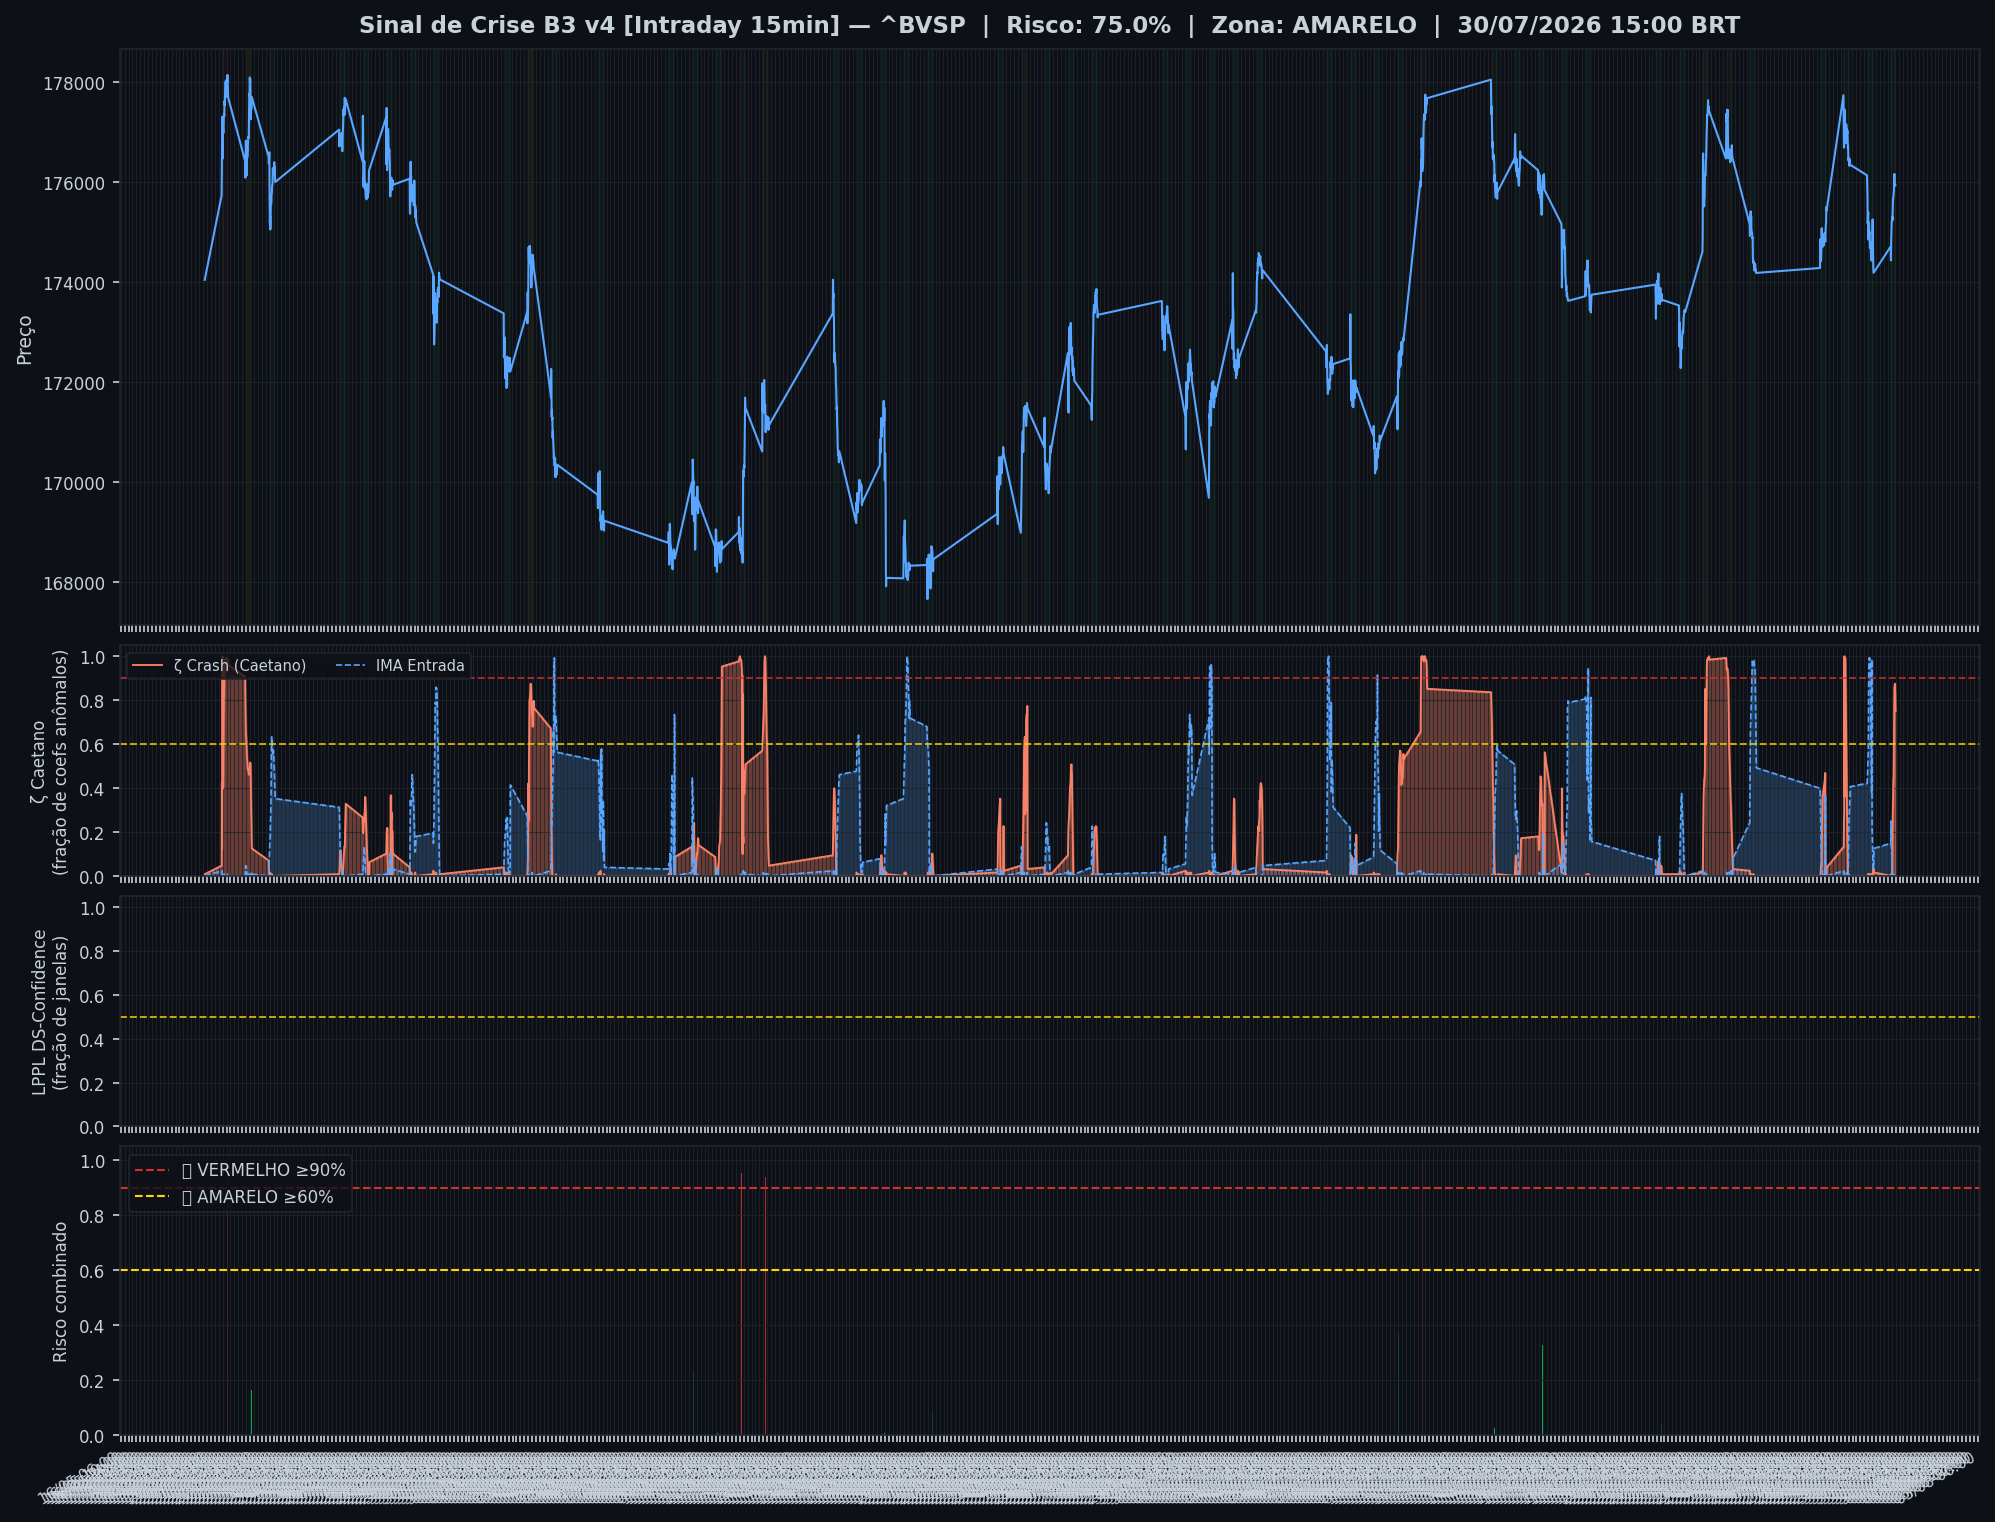
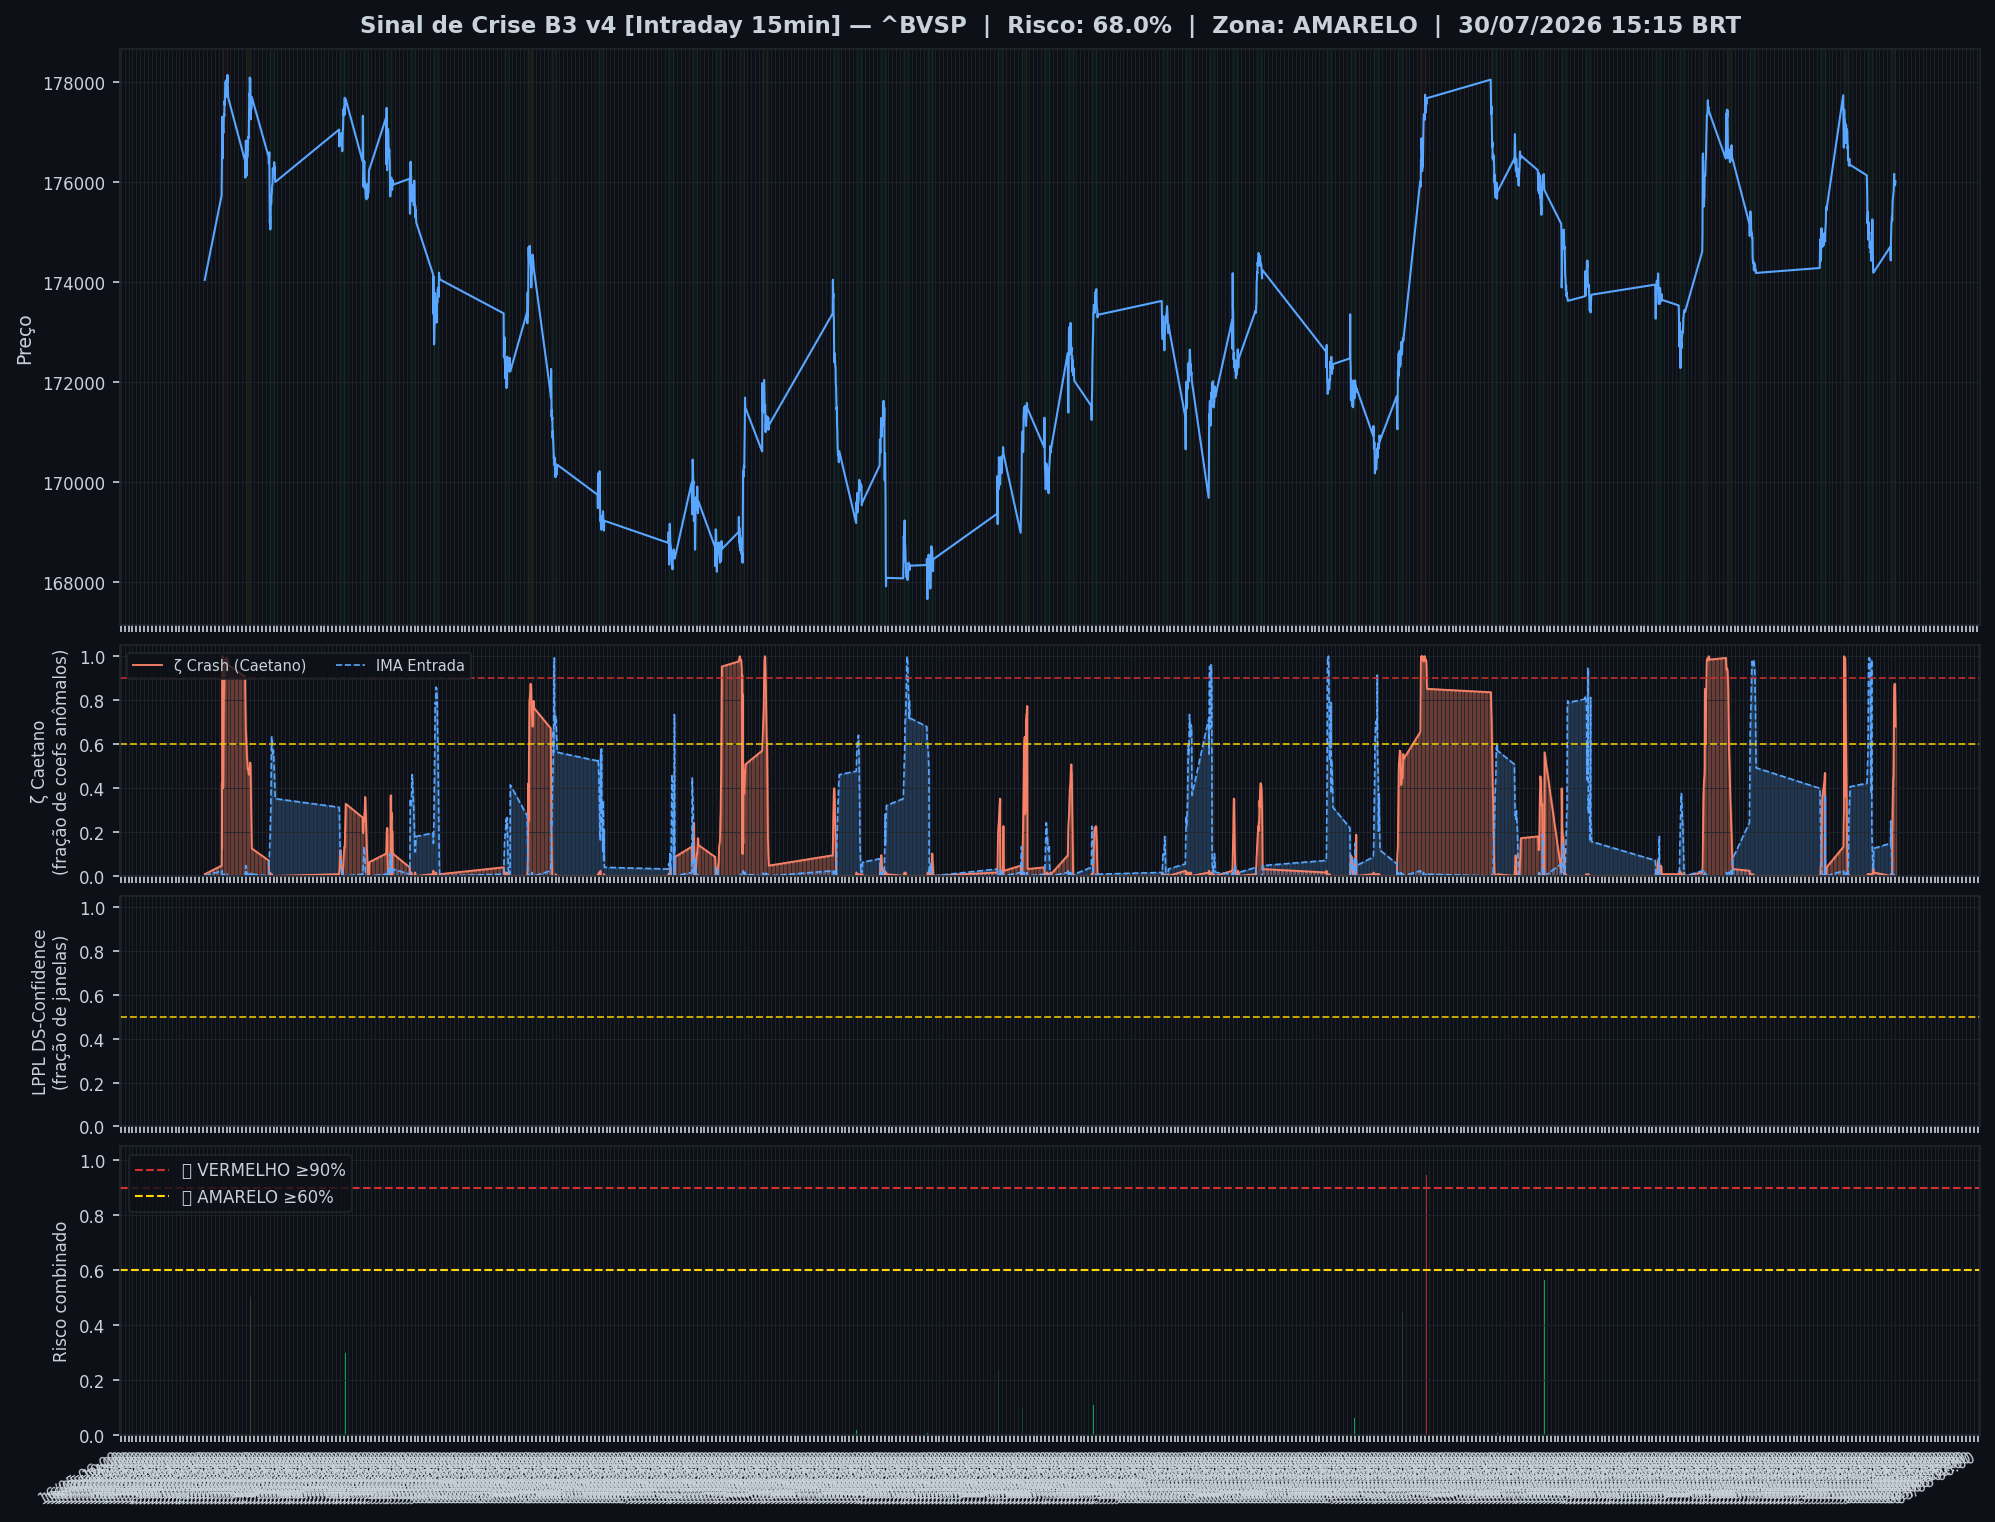
🤖 Auto: Sinal 30/07/2026 16:00

diff --git a/content/intraday/2026-07-30.md b/content/intraday/2026-07-30.md
@@ -1,20 +1,20 @@
 ---
-title: "🟡 Intraday 30/07/2026 15:00 BRT — AMARELO"
+title: "🟡 Intraday 30/07/2026 15:15 BRT — AMARELO"
 date: 2026-07-30
 tags: [intraday]
 ---
 
-> [!warning] 🟡 **AMARELO** — Risco 75% · ▼ -8 p.p. vs leitura anterior
-> `███████████████░░░░░`
+> [!warning] 🟡 **AMARELO** — Risco 68% · ▼ -7 p.p. vs leitura anterior
+> `██████████████░░░░░░`
 > Atenção — padrão de coeficientes associado a quedas mais severas.
 
 
 | Indicador | Valor |
 |---|---|
-| 🔴 ζ Crash — severidade da queda em curso | **75%** |
+| 🔴 ζ Crash — severidade da queda em curso | **68%** |
 | 🔵 ζ Entrada — estrutura de fundo | 0% |
 | 🫧 LPPL DS-Confidence | 0% |
-| 📊 Ibovespa | 175.945 pts |
+| 📊 Ibovespa | 176.020 pts |
 
 ![Gráfico do sinal](../graficos/sinal_intraday.png)
 
@@ -22,6 +22,7 @@ tags: [intraday]
 
 | Data | Zona | Risco | IMA Crash | Entrada | LPPL |
 |---|---|---|---|---|---|
+| 2026-07-30 15:15 | 🟡 AMARELO | **68%** | 68% | 0% | 0% |
 | 2026-07-30 15:00 | 🟡 AMARELO | **75%** | 75% | 0% | 0% |
 | 2026-07-30 14:45 | 🟡 AMARELO | **83%** | 83% | 0% | 0% |
 | 2026-07-30 14:30 | 🟡 AMARELO | **87%** | 87% | 0% | 0% |
@@ -51,7 +52,6 @@ tags: [intraday]
 | 2026-07-29 15:30 | 🟢 VERDE | **0%** | 0% | 12% | 0% |
 | 2026-07-29 15:15 | 🟢 VERDE | **0%** | 0% | 16% | 0% |
 | 2026-07-29 15:00 | 🟢 VERDE | **0%** | 0% | 21% | 0% |
-| 2026-07-29 14:45 | 🟢 VERDE | **0%** | 0% | 98% | 0% |
 
 ## Monitor Multi-Ativo
 
@@ -59,36 +59,36 @@ tags: [intraday]
 
 | Zona | Ativo | Setor | IMA Crash | IMA Entrada |
 |---|---|---|---|---|
-| 🟢 | **VALE** | Mineração | 18.0% | 33.6% |
-| 🟢 | **ITAUUNIBANCO** | Financeiro | 18.0% | 33.6% |
-| 🟢 | **PETROBRAS** | Petróleo | 18.0% | 33.6% |
-| 🟢 | **AXIA ENERGIA** | Energia | 18.0% | 33.6% |
-| 🟢 | **PETROBRAS** | Petróleo | 18.0% | 33.6% |
-| 🟢 | **ITAUSA** | Financeiro | 18.0% | 33.6% |
-| 🟢 | **B3** | Financeiro | 18.0% | 33.6% |
-| 🟢 | **SABESP** | Saneamento | 18.0% | 33.6% |
-| 🟢 | **AMBEV S/A** | Consumo | 18.0% | 33.6% |
-| 🟢 | **WEG** | Industrial | 18.0% | 33.6% |
-| 🟢 | **BTGP BANCO** | Financeiro | 18.0% | 33.6% |
-| 🟢 | **EMBRAER** | Outros | 18.0% | 33.6% |
-| 🟢 | **BRASIL** | Financeiro | 18.0% | 33.6% |
-| 🟢 | **ENEVA** | Energia | 18.0% | 33.6% |
-| 🟢 | **EQUATORIAL** | Energia | 18.0% | 33.6% |
-| 🟢 | **PRIO** | Petróleo | 18.0% | 33.6% |
-| 🟢 | **COPEL** | Energia | 18.0% | 33.6% |
-| 🟢 | **VIBRA** | Energia | 18.0% | 33.6% |
-| 🟢 | **REDE D OR** | Saúde | 18.0% | 33.6% |
-| 🟢 | **LOCALIZA** | Aluguel | 18.0% | 33.6% |
-| 🟢 | **ULTRAPAR** | Outros | 18.0% | 33.6% |
-| 🟢 | **GERDAU** | Siderurgia | 18.0% | 33.6% |
-| 🟢 | **SUZANO S.A.** | Papel/Celulose | 18.0% | 33.6% |
-| 🟢 | **BBSEGURIDADE** | Financeiro | 18.0% | 33.6% |
-| 🟢 | **USD/BRL** | Câmbio | 16.4% | 30.5% |
-| 🟢 | **BRADESCO** | Financeiro | 13.3% | 35.9% |
+| 🟢 | **USD/BRL** | Câmbio | 17.2% | 27.3% |
+| 🟢 | **VALE** | Mineração | 16.4% | 30.5% |
+| 🟢 | **ITAUUNIBANCO** | Financeiro | 16.4% | 30.5% |
+| 🟢 | **PETROBRAS** | Petróleo | 16.4% | 30.5% |
+| 🟢 | **AXIA ENERGIA** | Energia | 16.4% | 30.5% |
+| 🟢 | **PETROBRAS** | Petróleo | 16.4% | 30.5% |
+| 🟢 | **BRADESCO** | Financeiro | 16.4% | 30.5% |
+| 🟢 | **ITAUSA** | Financeiro | 16.4% | 30.5% |
+| 🟢 | **B3** | Financeiro | 16.4% | 30.5% |
+| 🟢 | **SABESP** | Saneamento | 16.4% | 30.5% |
+| 🟢 | **AMBEV S/A** | Consumo | 16.4% | 30.5% |
+| 🟢 | **WEG** | Industrial | 16.4% | 30.5% |
+| 🟢 | **BTGP BANCO** | Financeiro | 16.4% | 30.5% |
+| 🟢 | **EMBRAER** | Outros | 16.4% | 30.5% |
+| 🟢 | **BRASIL** | Financeiro | 16.4% | 30.5% |
+| 🟢 | **ENEVA** | Energia | 16.4% | 30.5% |
+| 🟢 | **EQUATORIAL** | Energia | 16.4% | 30.5% |
+| 🟢 | **PRIO** | Petróleo | 16.4% | 30.5% |
+| 🟢 | **COPEL** | Energia | 16.4% | 30.5% |
+| 🟢 | **VIBRA** | Energia | 16.4% | 30.5% |
+| 🟢 | **REDE D OR** | Saúde | 16.4% | 30.5% |
+| 🟢 | **LOCALIZA** | Aluguel | 16.4% | 30.5% |
+| 🟢 | **ULTRAPAR** | Outros | 16.4% | 30.5% |
+| 🟢 | **GERDAU** | Siderurgia | 16.4% | 30.5% |
+| 🟢 | **SUZANO S.A.** | Papel/Celulose | 16.4% | 30.5% |
+| 🟢 | **BBSEGURIDADE** | Financeiro | 16.4% | 30.5% |
 
 ![Monitor multi-ativo](../graficos/multi_intraday.png)
 
-*Página atualizada em 30/07/2026 15:45 BRT (leitura da barra de 2026-07-30 15:00 BRT).*
+*Página atualizada em 30/07/2026 16:00 BRT (leitura da barra de 2026-07-30 15:15 BRT).*
 
 > [!info]- Como interpretar (clique para expandir)
 > - **ζ Crash**: fração dos coeficientes wavelet acima do corte (Caetano & Yoneyama 2009). Escala absoluta: ζ=0,90 = 90% dos coeficientes anômalos — historicamente, quedas com ζ≥0,90 foram mais fundas e mais longas. **Mede a severidade do movimento em curso, não prevê o início da queda.**

diff --git a/content/index.md b/content/index.md
@@ -8,19 +8,19 @@ tags: [home]
 
 Monitoramento diário e intraday do Ibovespa — **IMA Wavelet** (Prof. Marco Antonio Leonel Caetano, ITA/INSPER) + **LPPL DS-Confidence** (Prof. Didier Sornette, ETH-Zurich).
 
-*Última atualização: 30/07/2026 15:45 BRT · ^BVSP · Intraday 15min · v4*
+*Última atualização: 30/07/2026 16:00 BRT · ^BVSP · Intraday 15min · v4*
 
-> [!warning] 🟡 **AMARELO** — Risco 75% · ▼ -8 p.p. vs leitura anterior
-> `███████████████░░░░░`
+> [!warning] 🟡 **AMARELO** — Risco 68% · ▼ -7 p.p. vs leitura anterior
+> `██████████████░░░░░░`
 > Atenção — padrão de coeficientes associado a quedas mais severas.
 
 
 | Indicador | Valor |
 |---|---|
-| 🔴 ζ Crash — severidade da queda em curso | **75%** |
+| 🔴 ζ Crash — severidade da queda em curso | **68%** |
 | 🔵 ζ Entrada — estrutura de fundo | 0% |
 | 🫧 LPPL DS-Confidence | 0% |
-| 📊 Ibovespa | 175.945 pts |
+| 📊 Ibovespa | 176.020 pts |
 
 **Multi-ativo:** 0% em tensão (0🔴 0🟡 de 26 ativos)
 
@@ -32,7 +32,7 @@ Monitoramento diário e intraday do Ibovespa — **IMA Wavelet** (Prof. Marco An
 
 | Data | Zona | Risco | IMA | LPPL |
 |---|---|---|---|---|
-| [30 Jul 2026](diario/2026-07-30) | 🟡 AMARELO | **75%** | 75% | 0% |
+| [30 Jul 2026](diario/2026-07-30) | 🟡 AMARELO | **68%** | 68% | 0% |
 | [29 Jul 2026](diario/2026-07-29) | 🟢 VERDE | **2%** | 2% | 0% |
 
 ## Navegação

diff --git a/content/historico.md b/content/historico.md
@@ -7,6 +7,7 @@ tags: [historico]
 
 | Data | Modo | Zona | Risco | IMA | LPPL |
 |---|---|---|---|---|---|
+| 2026-07-30 15:15 | intraday | 🟡 AMARELO | 68% | 68% | 0% |
 | 2026-07-30 15:00 | intraday | 🟡 AMARELO | 75% | 75% | 0% |
 | 2026-07-30 14:45 | intraday | 🟡 AMARELO | 83% | 83% | 0% |
 | 2026-07-30 14:30 | intraday | 🟡 AMARELO | 87% | 87% | 0% |
